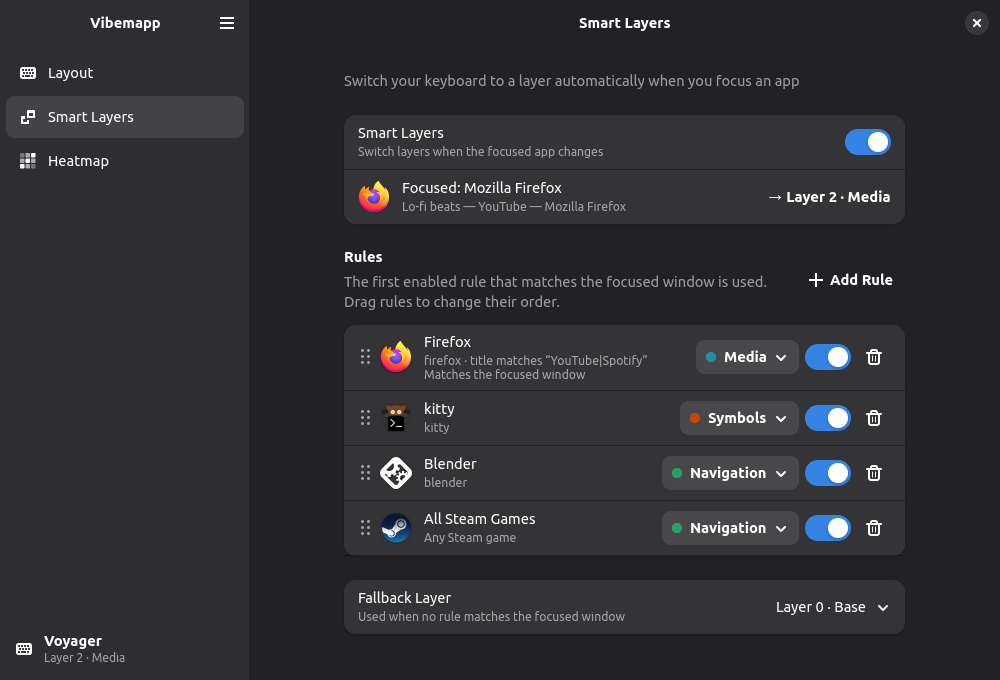
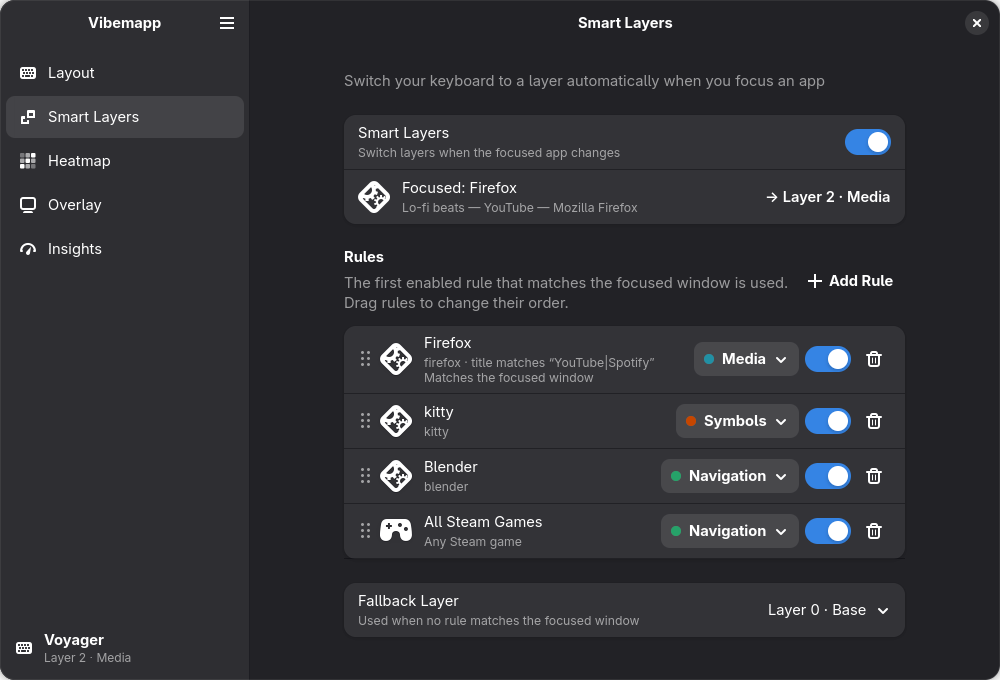
Release 1.6.2: new screenshots and a README overview
Regenerate every screenshot from the current app (the sidebar now has
Overlay and Insights, the Overlay page shows its settings, the tray menu
has Show Overlay) and add overlay-view.png, the overlay itself. The README
gets a header with the icon, badges and a feature overview.

tray_menu_shot.py gains --overlay for the menu as shown with
gtk4-layer-shell installed.

Claude-Session: https://claude.ai/code/session_01Bq7af74F64R8thBwAmi7hL

diff --git a/tests/ui/tray_menu_shot.py b/tests/ui/tray_menu_shot.py
@@ -1,7 +1,7 @@
 """Render the real tray menu to a PNG (dev tool, not a test).
 
     PYTHONPATH=src python3 tests/ui/tray_menu_shot.py OUT.png
-        [--state no-keyboard|ready|smart-off] [--layer N] [--window-visible] [--demo]
+        [--state no-keyboard|ready|smart-off] [--layer N] [--window-visible] [--overlay] [--demo]
 
 There's no grim or screenshot portal, and tray hosts draw the menu themselves,
 so the menu can't be screenshotted. Instead this starts a private
@@ -121,7 +121,7 @@ def call(conn: Gio.DBusConnection, name: str, path: str, iface: str, method: str
 
 
 def fetch_tray(state: str, layer: int | None,
-               window_visible: bool = False) -> tuple[tuple, tuple[str, str]]:
+               window_visible: bool = False, overlay: bool = False) -> tuple[tuple, tuple[str, str]]:
     """Run the real tray on a private bus; return (dbusmenu layout, (tip title, body))."""
     daemon = subprocess.Popen(["dbus-daemon", "--session", "--nofork", "--print-address=1"],
                               stdout=subprocess.PIPE, stderr=subprocess.DEVNULL, text=True)
@@ -139,7 +139,8 @@ def fetch_tray(state: str, layer: int | None,
         settings = MemorySettings()
         device = DeviceController(svc, settings)
         ctl = tc.TrayController(svc, device, settings, on_toggle_window=lambda: None,
-                                on_show_window=lambda: None, on_quit=lambda: None)
+                                on_show_window=lambda: None, on_quit=lambda: None,
+                                on_toggle_overlay=(lambda: None) if overlay else None)
         # As the app does at startup (main.py).
         svc.props.smart_layers_enabled = (state != "smart-off"
                                           and settings.get_boolean("smart-layers-on-startup"))
@@ -264,6 +265,8 @@ def main() -> int:
     parser.add_argument("--layer", type=int, help="active keyboard layer (mock)")
     parser.add_argument("--window-visible", action="store_true",
                         help="menu as shown while the main window is open")
+    parser.add_argument("--overlay", action="store_true",
+                        help="menu as shown when gtk4-layer-shell is installed (Show Overlay)")
     parser.add_argument("--demo", action="store_true",
                         help="render a built-in layout that uses every feature")
     args = parser.parse_args()
@@ -274,7 +277,7 @@ def main() -> int:
         if not shutil.which("dbus-daemon"):
             print("dbus-daemon not installed", file=sys.stderr)
             return 1
-        layout, tooltip = fetch_tray(args.state, args.layer, args.window_visible)
+        layout, tooltip = fetch_tray(args.state, args.layer, args.window_visible, args.overlay)
     dump(layout[2])
     print(f"tooltip: {tooltip!r}")
 

diff --git a/src/vibemapp/ui/resources.py b/src/vibemapp/ui/resources.py
@@ -46,7 +46,7 @@ def app_title() -> str:
 
 
 def version() -> str:
-    return os.environ.get("VIBEMAPP_VERSION") or "1.6.1-dev"
+    return os.environ.get("VIBEMAPP_VERSION") or "1.6.2-dev"
 
 
 _css_loaded = False

diff --git a/README.md b/README.md
@@ -1,6 +1,38 @@
-# Vibemapp
+<p align="center">
+  <img src="data/icons/hicolor/scalable/apps/io.github.albertflindt.Vibemapp.svg" alt="" width="128">
+</p>
 
-A GNOME/libadwaita take on ZSA Keymapp for Linux, written in Python with PyGObject.
+<h1 align="center">Vibemapp</h1>
+
+<p align="center">
+  A GNOME/libadwaita take on ZSA Keymapp for Linux, written in Python with PyGObject.<br>
+  See your Oryx layout live, and let your keyboard switch layers when you switch apps.
+</p>
+
+<p align="center">
+  <a href="https://github.com/AlbertFlindt/vibemapp/releases/latest"><img src="https://img.shields.io/github/v/release/AlbertFlindt/vibemapp?label=release" alt="Latest release"></a>
+  <a href="https://github.com/AlbertFlindt/vibemapp/actions/workflows/ci.yml"><img src="https://github.com/AlbertFlindt/vibemapp/actions/workflows/ci.yml/badge.svg" alt="CI"></a>
+  <a href="#license"><img src="https://img.shields.io/badge/license-GPL--3.0--or--later-blue" alt="License: GPL-3.0-or-later"></a>
+</p>
+
+<p align="center">
+  <a href="#features">Features</a> ·
+  <a href="#requirements">Requirements</a> ·
+  <a href="#installation-arch-linux">Installation</a> ·
+  <a href="#running-from-source">Running from source</a>
+</p>
+
+<p align="center">
+  <img src="data/screenshots/layout.png" alt="Vibemapp's layout view, showing a Voyager layout with layer tabs">
+</p>
+
+| Feature | What it does |
+|---|---|
+| **Live Layout** | Your Oryx layout, the active layer and the keys you press, live. |
+| **Smart Layers** | Switches the keyboard's layer when the focused app changes (Hyprland). |
+| **Overlay** | A see-through, click-through view of the layer you're on. |
+| **Heatmap and Insights** | Opt-in key-press counts and finger load. Counts only, never what you type. |
+| **Tray Icon** | Keeps Smart Layers running with the window closed. |
 
 Vibemapp never flashes firmware or writes to the keyboard's EEPROM.
 
@@ -9,9 +41,7 @@ Vibemapp never flashes firmware or writes to the keyboard's EEPROM.
 ### Live Layout
 
 Shows your Oryx layout with the keyboard's active layer and the keys you press, live.
-Transparent keys show the key they fall through to.
-
-![Vibemapp's layout view, showing a Voyager layout with layer tabs](data/screenshots/layout.png)
+Transparent keys show the key they fall through to. Hover a key for details.
 
 ### Smart Layers
 
@@ -27,7 +57,9 @@ In "selected" mode it shows only while one of the layers you picked is active: h
 symbols layer key and it appears, release it and it fades out. "Always" shows it on every
 layer. It never takes focus, and it follows the focused monitor or stays on a fixed one.
 
-![Overlay settings with the symbols and media layers selected](data/screenshots/overlay.png)
+<p align="center">
+  <img src="data/screenshots/overlay-view.png" alt="The overlay on the Symbols layer over a transparent backdrop, with F3 and { pressed">
+</p>
 
 - **Size** is a percentage of your keyboard's real size, so it looks the same on every
   monitor (computed from each monitor's physical width).
@@ -37,6 +69,10 @@ layer. It never takes focus, and it follows the focused monitor or stays on a fi
   ```lua
   hl.bind("SUPER + O", hl.dsp.exec_cmd("vibemapp --toggle-overlay"))
   ```
+
+<p align="center">
+  <img src="data/screenshots/overlay.png" alt="Overlay settings with the Symbols and Media layers selected" width="600">
+</p>
 
 Needs `gtk4-layer-shell`: the overlay is a layer-shell surface (namespace `vibemapp-overlay`)
 that sits above fullscreen windows and panels. Without the package the overlay is off, its
@@ -64,7 +100,7 @@ Closing the window keeps Vibemapp, and Smart Layers, running in the tray. The me
 keyboard and current layer, and toggles Smart Layers and the overlay.
 
 <p align="center">
-  <img src="data/screenshots/tray.png" alt="Tray menu with the current layer, Hide Vibemapp, Smart Layers, Preferences and Quit" width="260">
+  <img src="data/screenshots/tray.png" alt="Tray menu with the current layer, Hide Vibemapp, Smart Layers, Show Overlay, Preferences and Quit" width="260">
 </p>
 
 ## Requirements

diff --git a/PROGRESS.md b/PROGRESS.md
@@ -1,6 +1,6 @@
 # Progress / handoff
 
-**Last updated:** 2026-10-29. **Latest release:** 1.6.1 (details in `CHANGELOG.md`).
+**Last updated:** 2026-10-30. **Latest release:** 1.6.2 (details in `CHANGELOG.md`).
 How things work: `docs/SPEC.md`.
 
 ## Current state
@@ -54,7 +54,12 @@ How things work: `docs/SPEC.md`.
 - **Screenshots come from the mock service** (`data/screenshots/`, `tests/ui/screenshot.py` and
   `tray_menu_shot.py`; heatmap with `VIBEMAPP_MOCK_HEATMAP_SEED=1 --record --size 1000x1000`; insights the same with
   `--page insights --size 1000x700`;
-  overlay page with `--page overlay --overlay-layers 1,2 --size 1000x1300`): no personal data.
+  overlay page with `--page overlay --overlay-layers 1,2 --size 1000x1300`; tray with `--window-visible --overlay`;
+  `overlay-view.png` is `--overlay --size 1920x1080 --width-mm 530 --layer 1 --press 3,15` cropped to
+  880x400 at (520,670)): no personal data. Dark style, blue accent, Adwaita Sans, on a Wayland
+  compositor with layer-shell (else the Overlay page shows "Overlay Unavailable"). Cloud sessions
+  (Ubuntu, old libadwaita) rendered them in an Ubuntu 26.04 debootstrap chroot under headless sway
+  with `ADW_DEBUG_COLOR_SCHEME=prefer-dark ADW_DEBUG_ACCENT_COLOR=blue` (Ubuntu's default accent is orange).
 - **PKGBUILD builds the GitHub tag, not the working tree:** reproducible packages. Tag and push
   before `makepkg`; use `./run-dev.sh` for untagged work.
 - **Distribution, if any, is the AUR** (2026-10-18): no AppImage or Flatpak (GTK4 bundling; the sandbox

diff --git a/CHANGELOG.md b/CHANGELOG.md
@@ -2,6 +2,13 @@
 
 All notable changes to Vibemapp. Each version is a tag and a GitHub release.
 
+## 1.6.2 (2026-10-30)
+
+### Changed
+- New screenshots that match the current app: the sidebar with Overlay and Insights, the
+  Overlay settings, and the tray menu with Show Overlay. A new screenshot shows the overlay itself.
+- The README has a short overview at the top.
+
 ## 1.6.1 (2026-10-29)
 
 ### Changed
